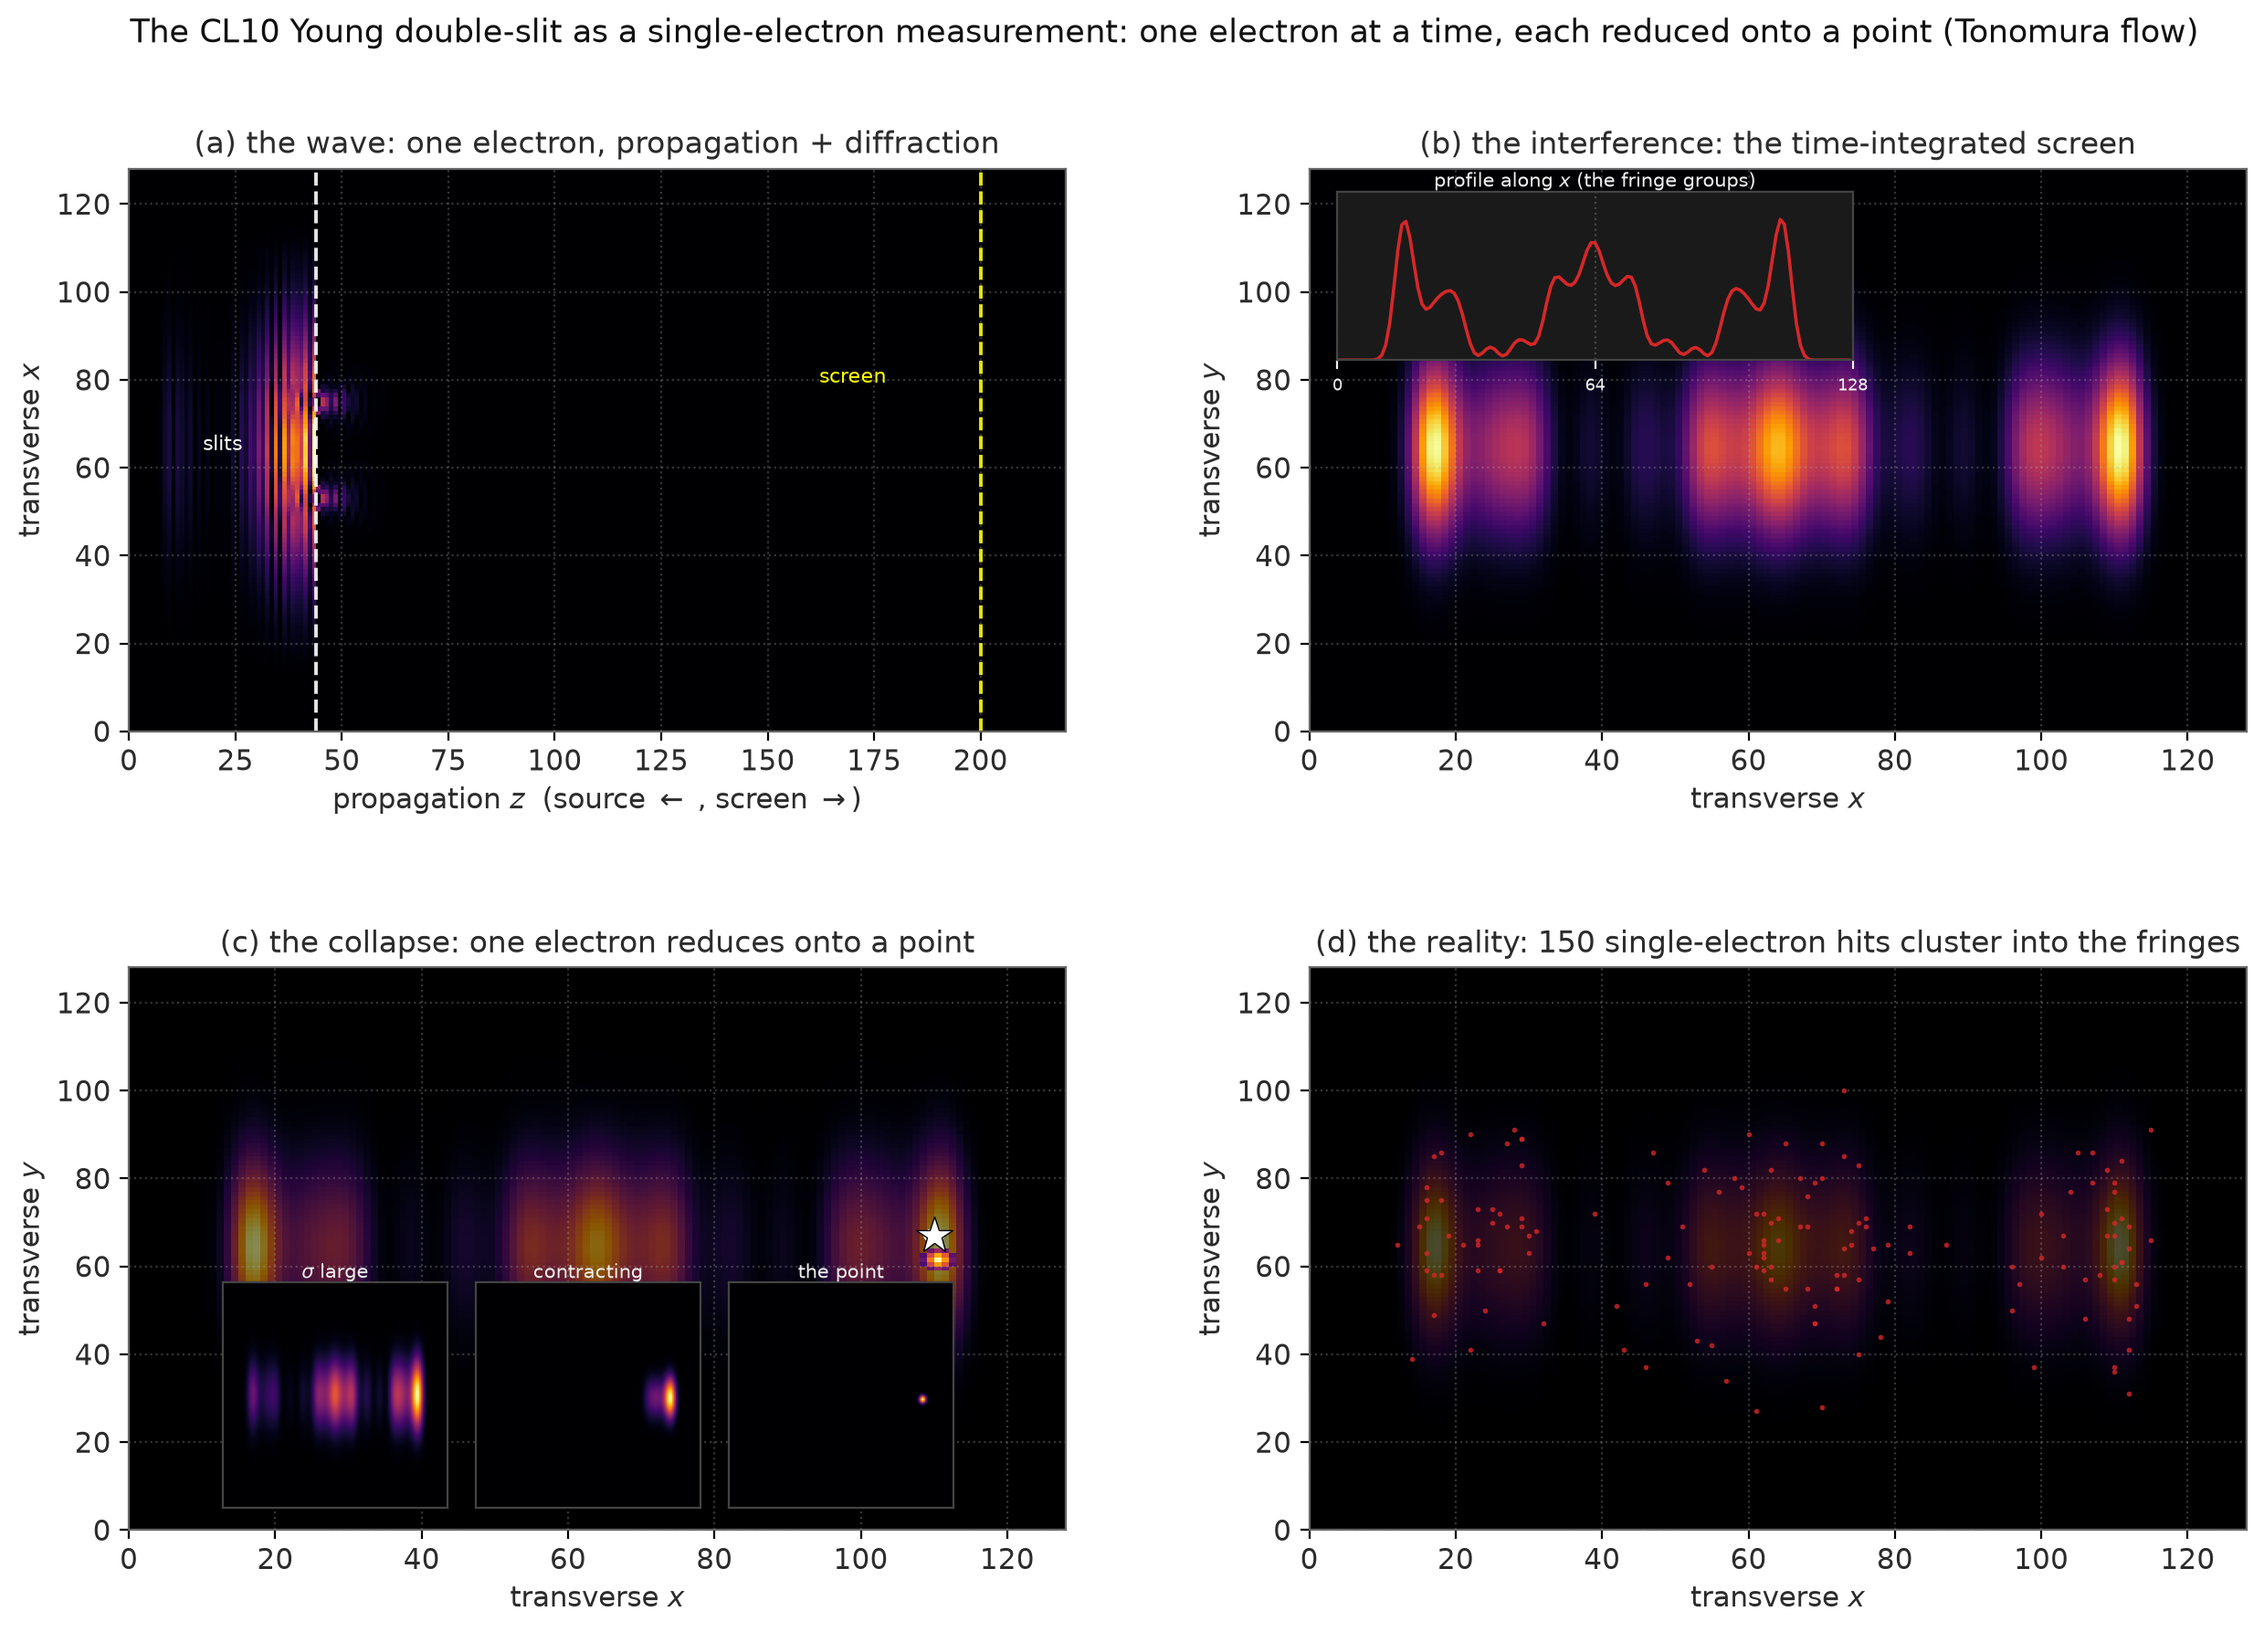
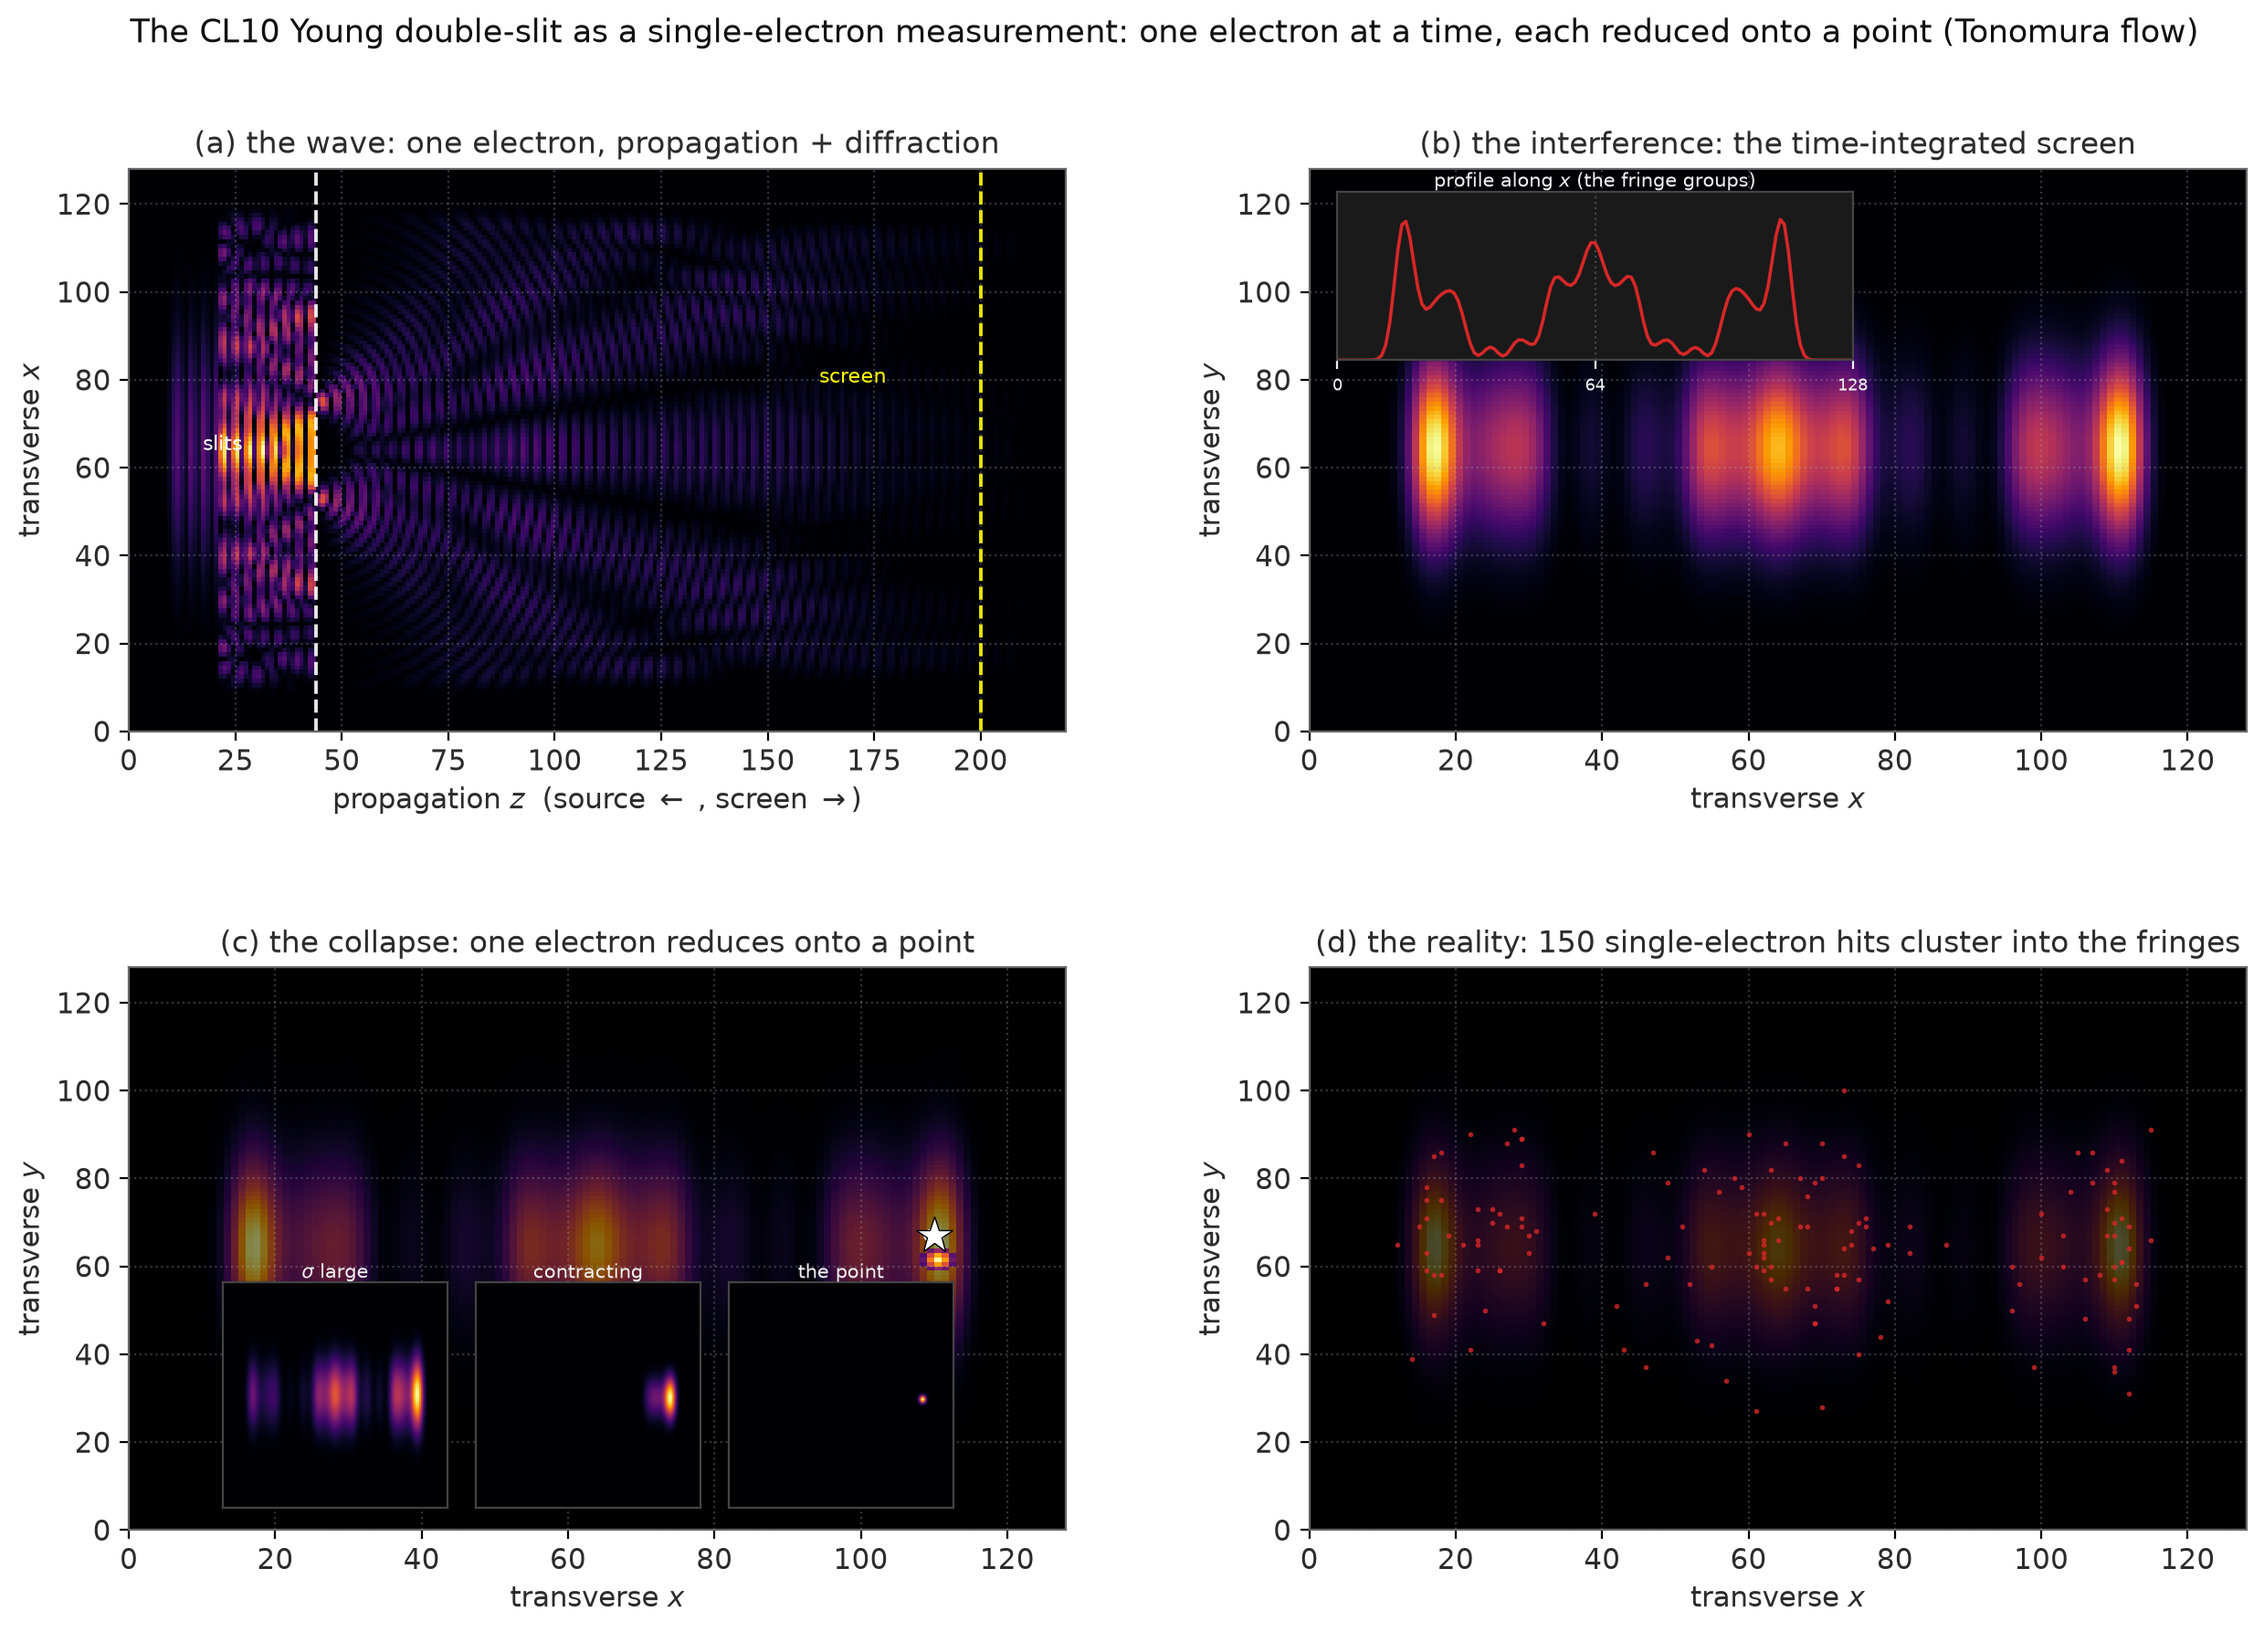
figures: fig26 panel (a) now shows the two diffracted waves (sheet beam)
The x-z slice in fig26 was captured from the single-electron point packet (a
small blob), so panel (a) didn't show the two waves diffracting through the
slits and interfering like fig25.  Fix: a separate continuous/sheet-beam sim
captures the x-z slice at step 500 (the same timing as fig25), so the slice
shows the full field diffracting through the two slits and the two waves
interfering.  The Tonomura flow (panels b/c/d) is unchanged.

Changed region(s): [[0.0621, 0.1231, 0.4038, 0.4309]]

diff --git a/make_figures.py b/make_figures.py
@@ -1355,21 +1355,30 @@ def fig26_young():
                              show_collapse=True, collapse_frames=9,
                              collapse_peak=6.0, n_detections=10 ** 8))
 
+    # -- (a) the wave: a *separate* driven sheet beam (continuous mode) so the
+    # x-z slice shows the full field diffracting through the two slits and the
+    # two waves interfering (like fig25) -- a single electron's small packet
+    # would only show a little blob.
+    sim_a = wave.WaveSim(dict(cfg, source_mode="continuous",
+                              source_shape="sheet"))
+    xz_slice = None
+    for _i in range(520):
+        sim_a.step()
+        if _i == 500:
+            xz_slice = (sim_a.field()[:, Ly // 2, :] ** 2).copy()
+
     # -- run the Tonomura flow: one electron at a time, one point each --------
     absorb_frac, max_flight, n_target = 0.02, 300, 150
     sim.emit_packet()
     dets = []
     screened = False
     flight = 0
-    xz_slice = None      # (a) the propagation slice, captured at the slits
     time_pattern = None  # (b) the time-integrated interference pattern
     n_steps = 0
     while len(dets) < n_target and n_steps < 200000:
         sim.step()
         n_steps += 1
         flight += 1
-        if xz_slice is None and bar_z < sim.t < bar_z + 40:
-            xz_slice = (sim.field()[:, Ly // 2, :] ** 2).copy()
         # the front reaches the screen -> arm the screen buffer
         if not screened and (sim.at_screen() or flight > max_flight):
             sim.arm_screen()
@@ -1391,7 +1400,7 @@ def fig26_young():
             flight = 0
     det = np.array(dets) if dets else np.empty((0, 2))
     if xz_slice is None:
-        xz_slice = (sim.field()[:, Ly // 2, :] ** 2)
+        xz_slice = (sim_a.field()[:, Ly // 2, :] ** 2)
     if time_pattern is None:
         time_pattern = sim.screen_pattern()
 
